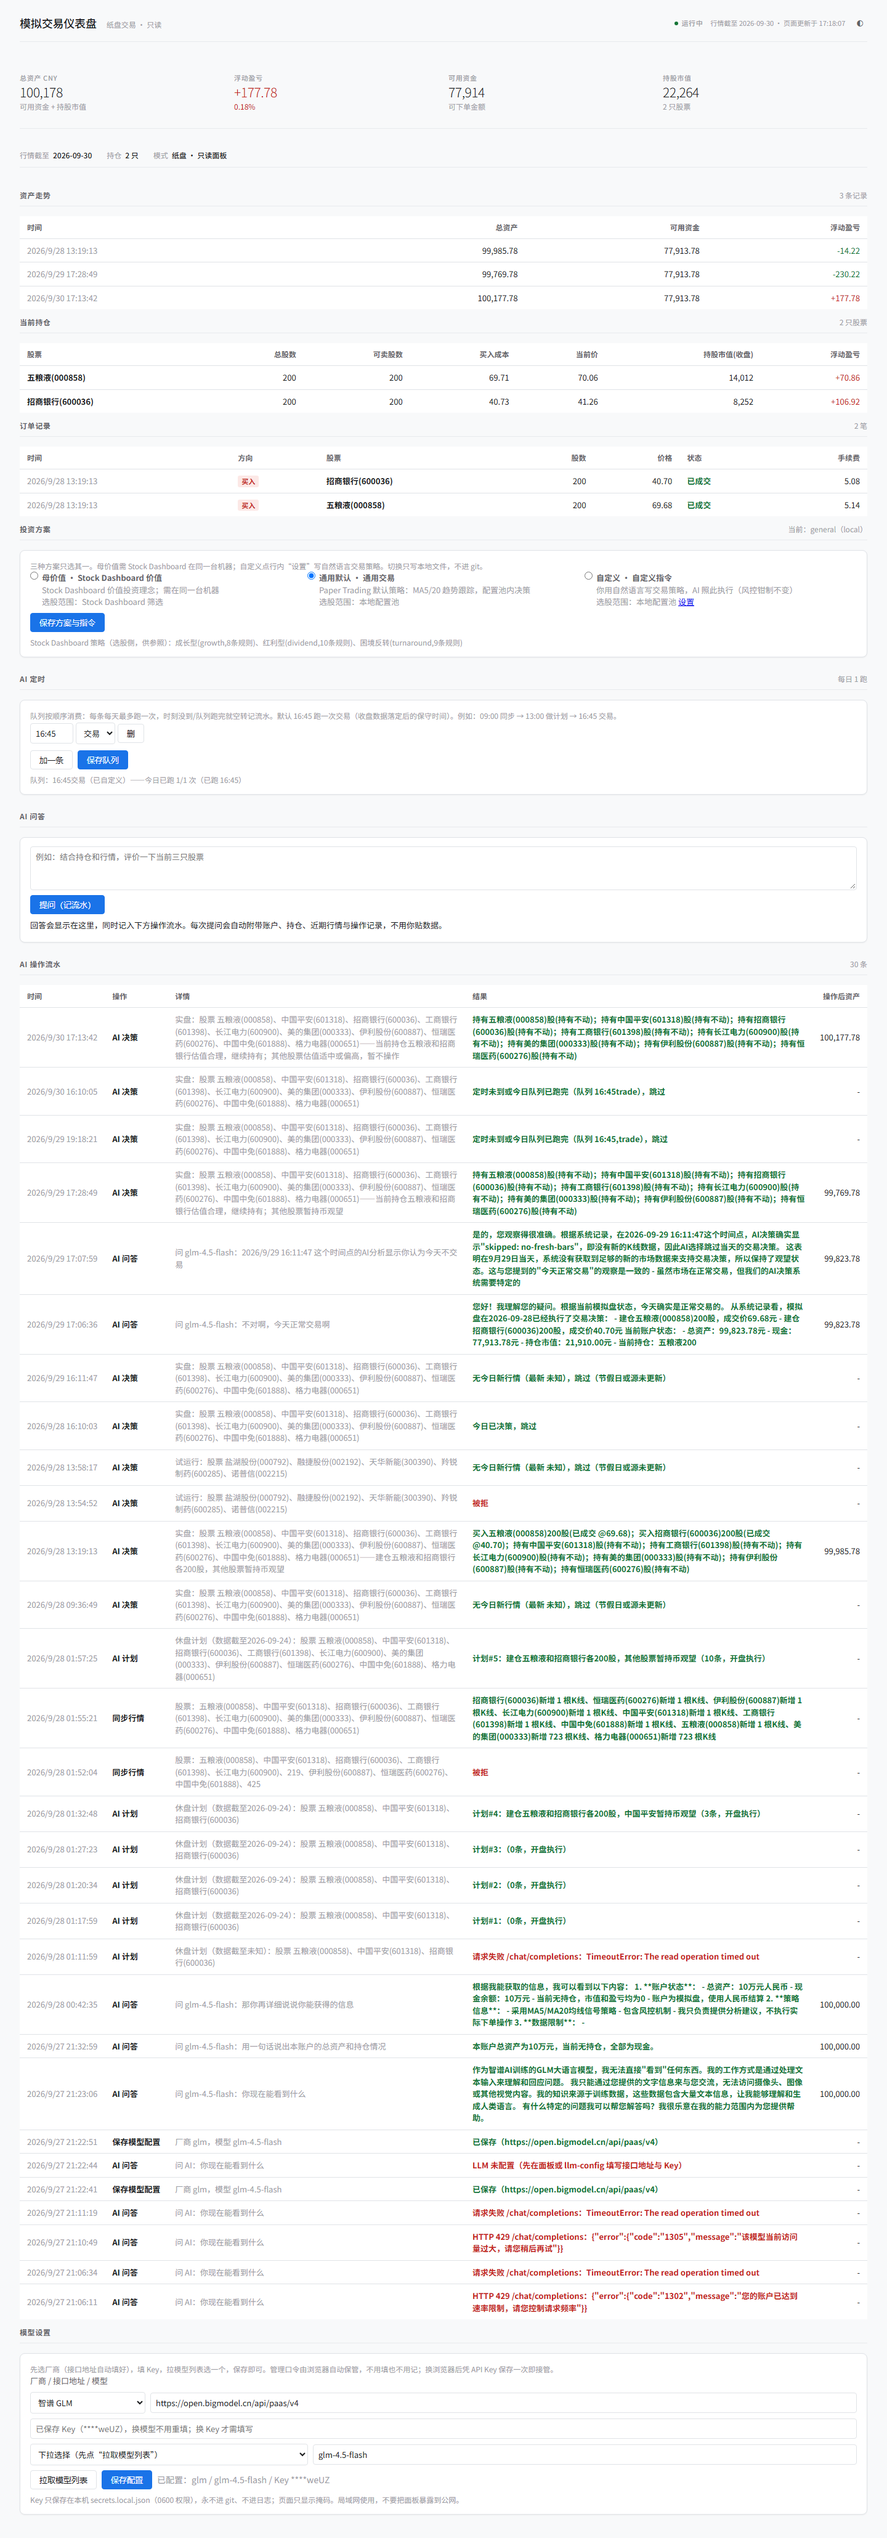
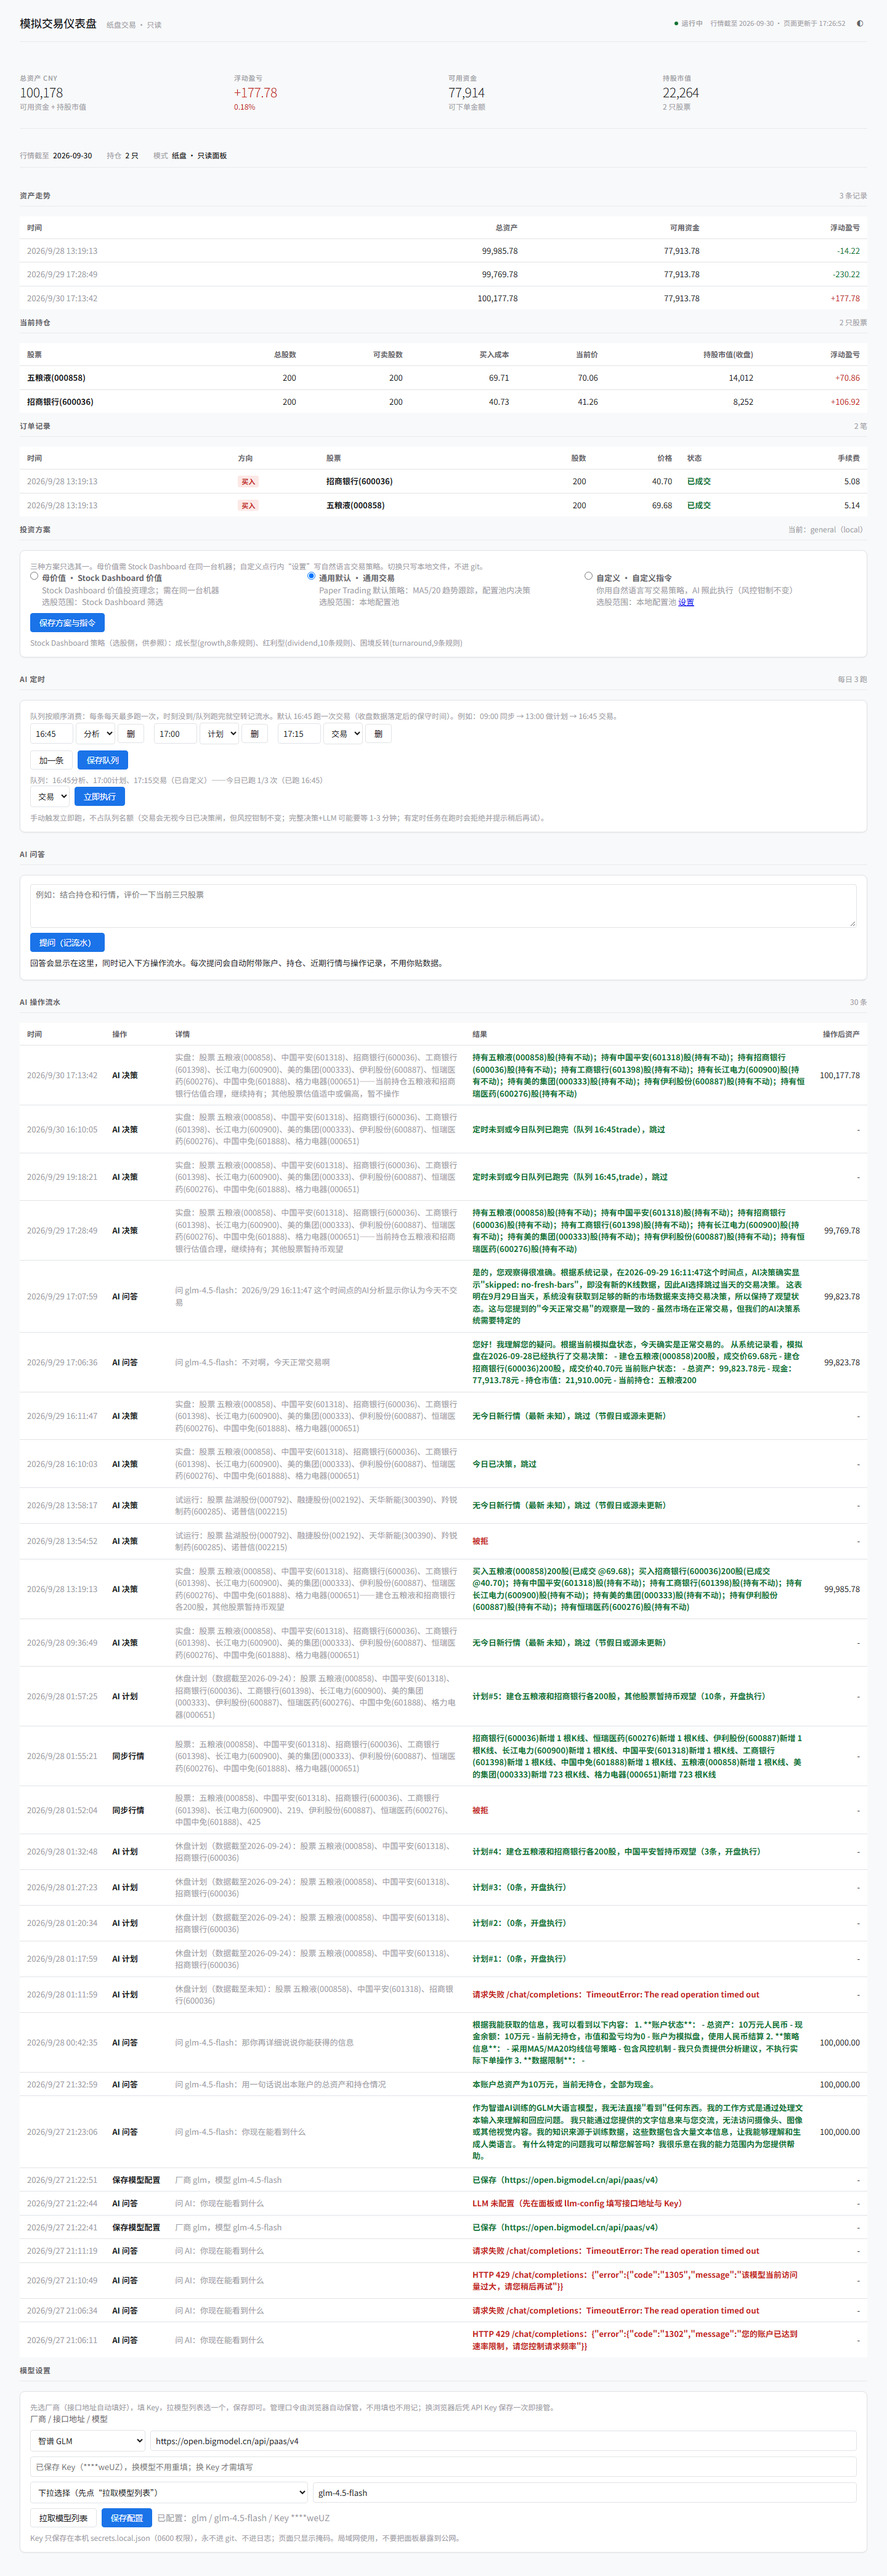
README同步手动触发（文档+预览图）

diff --git a/README.md b/README.md
@@ -310,7 +310,7 @@ python -m paper_trading.dashboard --port 8080
 - **AI 问答**：提问自动附带账户快照，回答记流水
 - **AI 操作流水**：每次操作的时间、动作、参数、结果（成交价/拒单原因）、操作后资产，详情列自动换行
 - **投资方案**：母价值 / 通用 / 自定义三选一（自定义指令折叠填写）
-- **AI 定时队列**：时刻 → 动作（同步/分析/计划/交易），如 09:00 同步 → 13:00 做计划 → 16:45 交易；每条每天最多跑一次，面板直接增删改，cron 侧用 15 分钟 tick 配合
+- **AI 定时队列**：时刻 → 动作（同步/分析/计划/交易），如 09:00 同步 → 13:00 做计划 → 16:45 交易；每条每天最多跑一次，面板直接增删改，cron 侧用 15 分钟 tick 配合；队列下方可手动触发任一动作（立即跑，不占队列名额）
 - **模型设置**：厂商预设 + 拉取模型列表 + 手填模型名（Key 掩码显示）
 
 流水写入 `paper_account.db` 的 `op_log` 表（`broker.log_operation`），仪表盘纯只读，可与交易进程并存。
